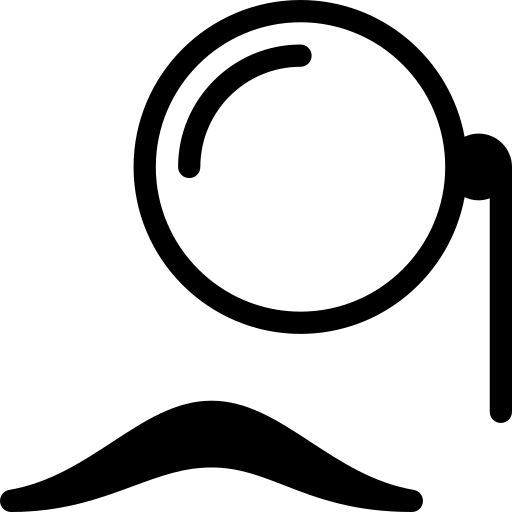
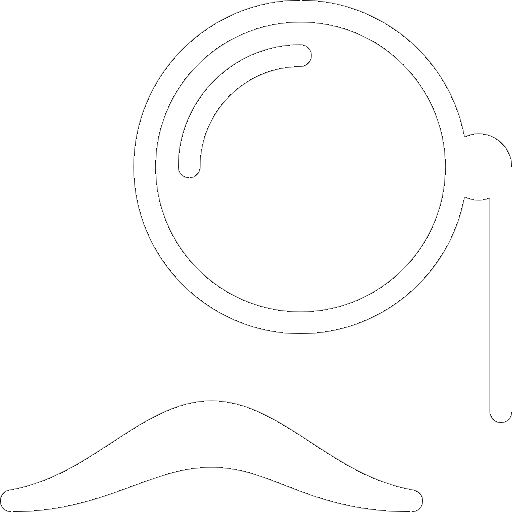
vmp image changes white on hover

Changed region(s): [[0.25, 0.0, 1.0, 0.8438], [0.0, 0.7812, 0.8438, 1.0]]

diff --git a/site-data/pages/index.html b/site-data/pages/index.html
@@ -60,9 +60,20 @@
               File Upload
             </h5>
           </a>
-          <a class="box" target="_blank" href="https://viewmyplans.com/plans">
+          <script>
+
+            function feature_hover(element) {
+              document.getElementById("vmp-image").src = "/images/monocle-white.png";
+            }
+
+            function feature_out(element) {
+              document.getElementById("vmp-image").src = "/images/monocle.png";
+            }
+
+          </script>
+          <a class="box" target="_blank" href="https://viewmyplans.com/plans" onmouseover="feature_hover(this)" onmouseout="feature_out(this)">
             <div class="img-box">
-              <img style="color: white;" src="/images/monocle.png">
+              <img id="vmp-image" style="color: white;" src="/images/monocle.png">
             </div>
             <h5 class="name">
               ViewMyPlans
